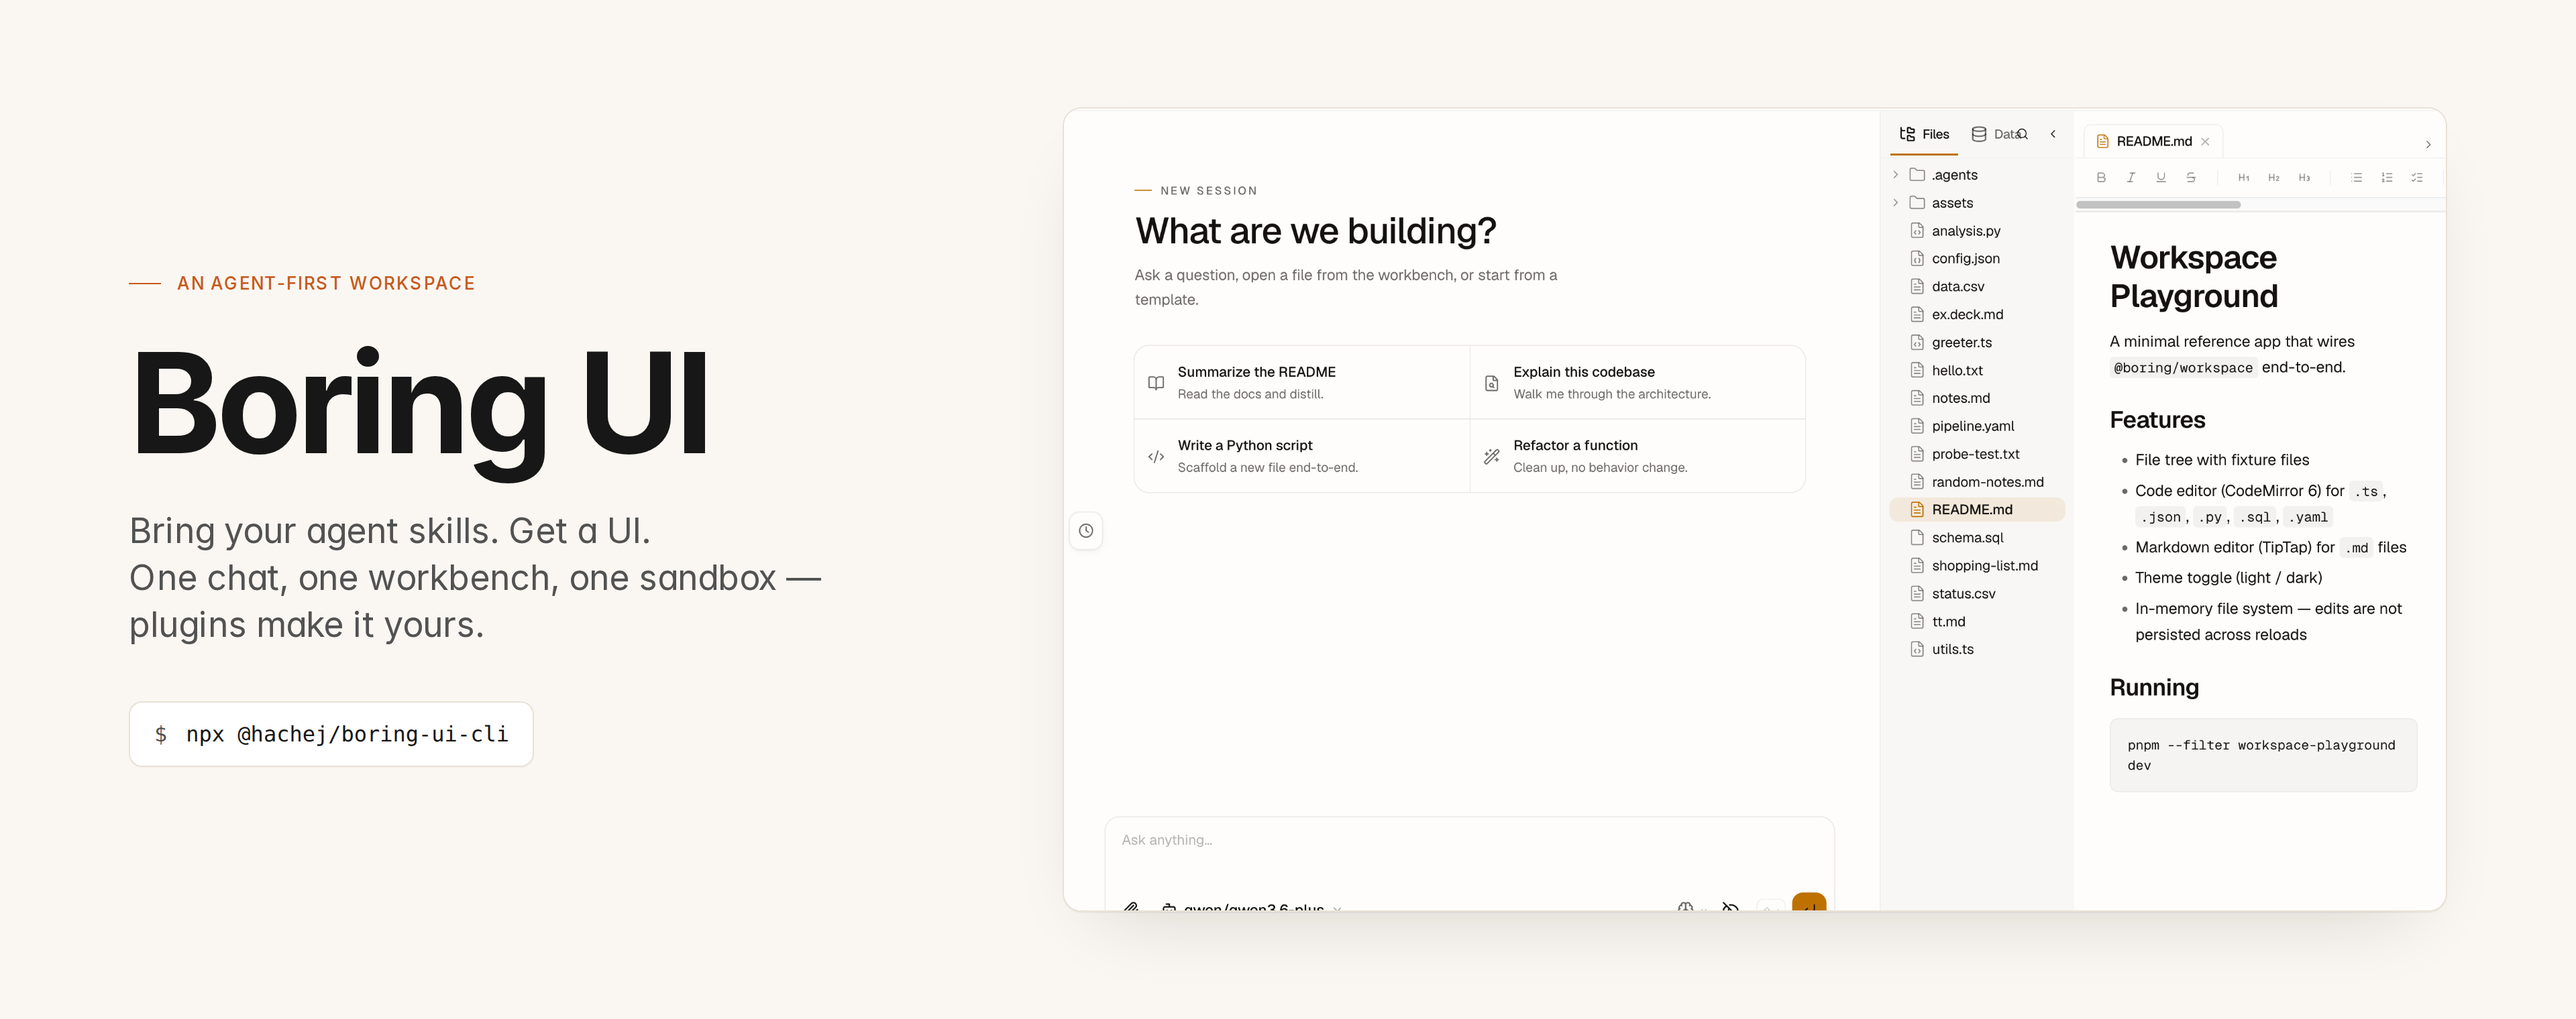
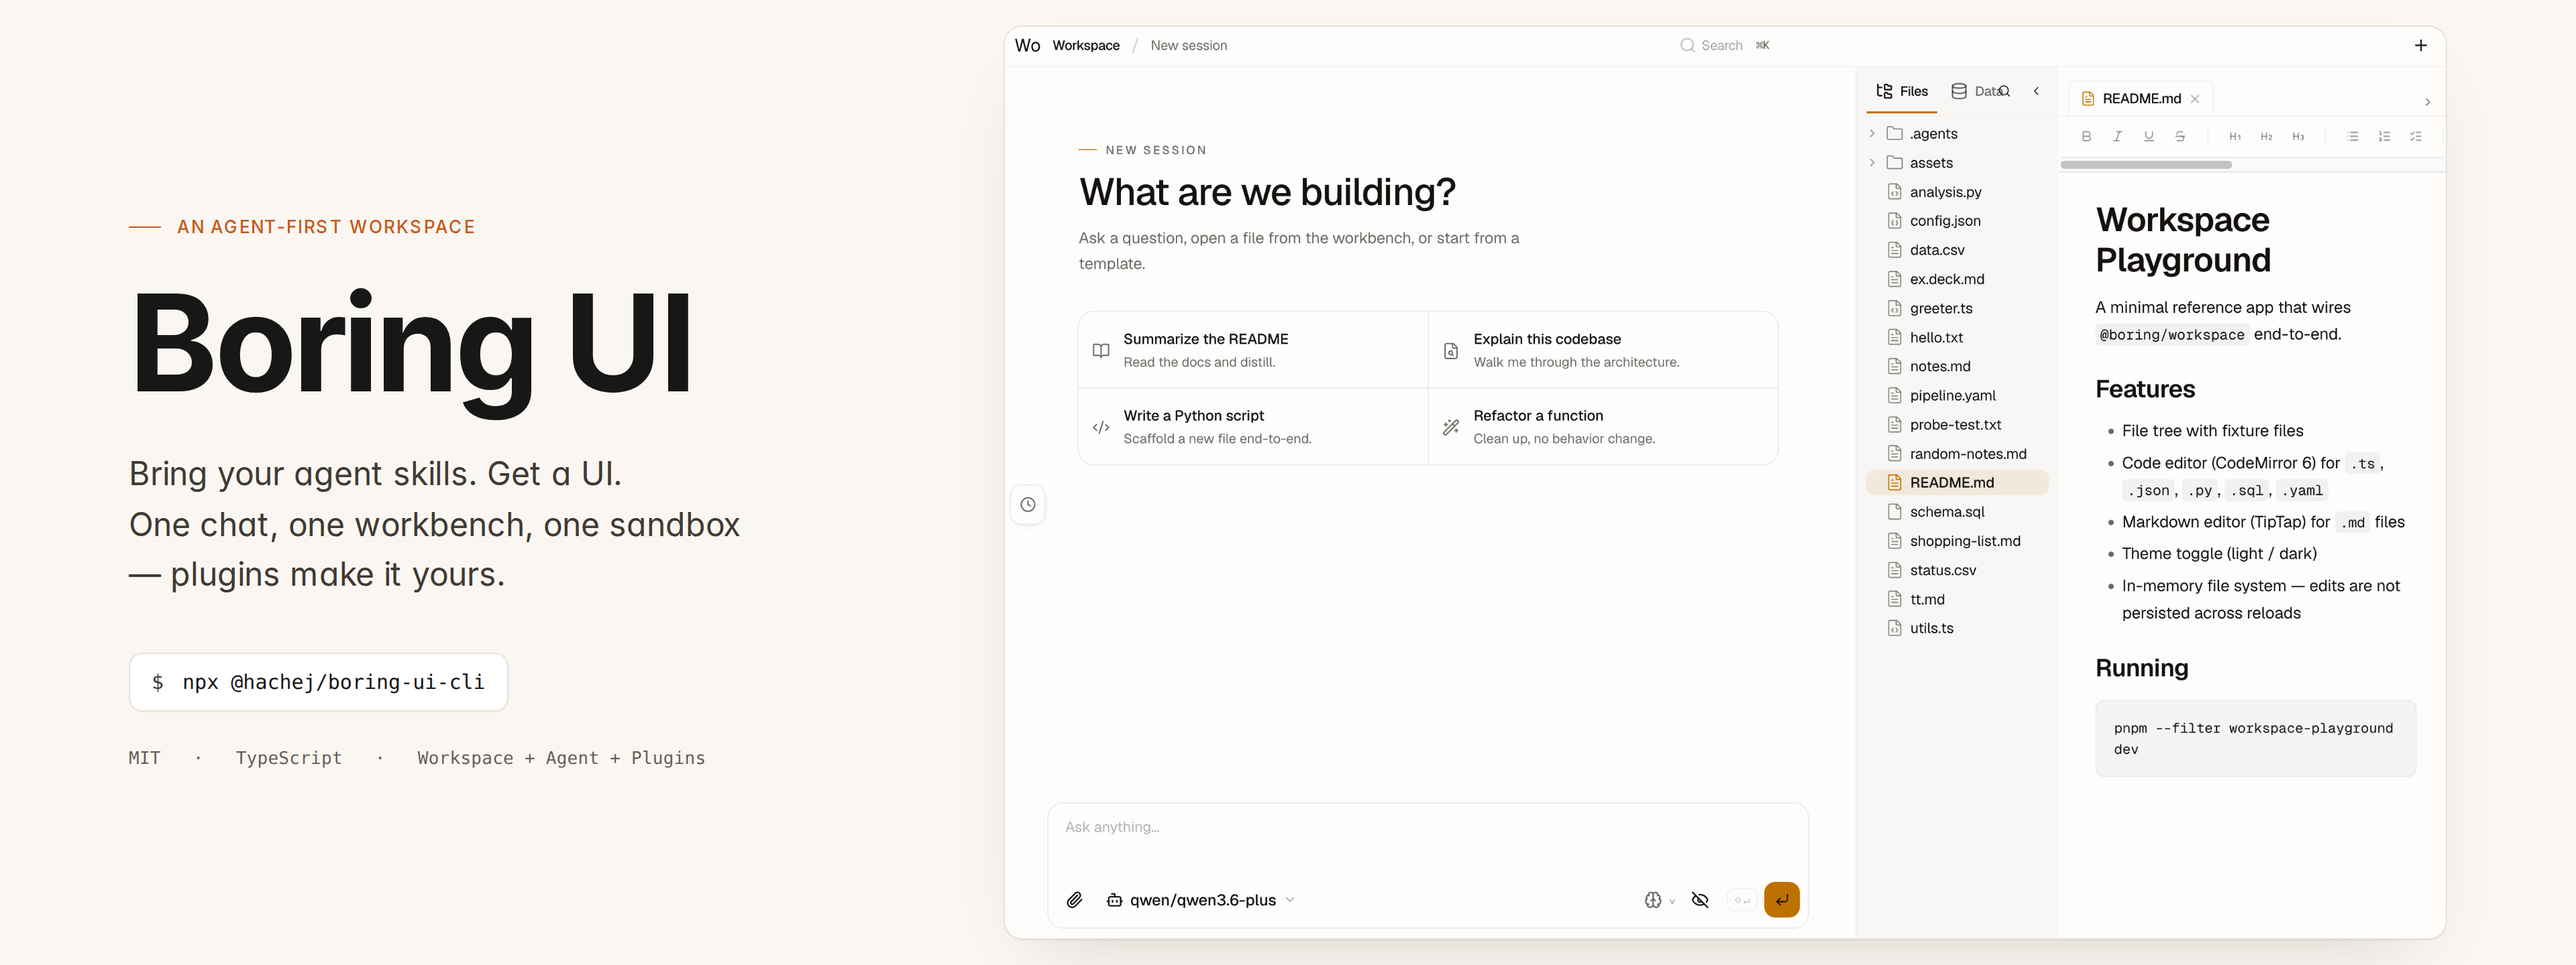
docs(readme): tighten hero — bigger headline, balanced columns, meta row
Iterated against multimodal Gemini grading (16 passes total). Settled
on the configuration with the best mean score (8.9-9.0) and 9.4 ceiling:

- Hero canvas 1920×720 (was 1920×760)
- Text column 540px, gap 112px, padding 96px — better proportional
  weight against the screenshot column
- Headline 100px / -0.028em letter-spacing (was 104px / -0.035em) — less
  monumental, more editorial
- Lede color #3F3A33 (was #525252) — passes WCAG AA on cream bg
- Added MIT / TypeScript / Workspace+Agent+Plugins meta row — anchors
  the text column to match the screenshot column's bottom edge,
  resolving the vertical-balance issue Gemini repeatedly flagged
- Screenshot now object-fit: contain (was cover) + auto height — shows
  the full workspace including header chrome and chat input

diff --git a/scripts/hero/hero.html b/scripts/hero/hero.html
@@ -11,7 +11,7 @@
       --bg:        #FAF7F2;
       --canvas:    #FFFFFF;
       --fg:        #171717;
-      --muted:     #525252;
+      --muted:     #3F3A33;
       --hairline:  #E8E1D5;
       --accent:    #C7591A;     /* one accent, used sparingly */
       --mono: ui-monospace, "JetBrains Mono", "SFMono-Regular", Menlo, Consolas, monospace;
@@ -21,7 +21,7 @@
     html, body { margin: 0; padding: 0; background: var(--bg); }
     body {
       width: 1920px;
-      height: 760px;
+      height: 720px;
       font-family: var(--sans);
       color: var(--fg);
       font-feature-settings: "ss01", "cv11", "cv02";
@@ -31,14 +31,24 @@
       width: 100%;
       height: 100%;
       display: grid;
-      grid-template-columns: 600px 1fr;
-      gap: 96px;
+      grid-template-columns: 540px 1fr;
+      gap: 112px;
       padding: 0 96px;
       align-items: center;
     }
     .text {
       padding-top: 8px;
     }
+    .meta-row {
+      display: flex;
+      gap: 24px;
+      margin-top: 28px;
+      font-family: var(--mono);
+      font-size: 13px;
+      color: var(--muted);
+      letter-spacing: 0.01em;
+    }
+    .meta-row span { opacity: 0.8; }
     .eyebrow {
       display: inline-flex;
       align-items: center;
@@ -58,11 +68,11 @@
       background: var(--accent);
     }
     h1 {
-      font-size: 104px;
+      font-size: 100px;
       font-weight: 700;
-      letter-spacing: -0.035em;
-      line-height: 0.95;
-      margin: 0 0 28px 0;
+      letter-spacing: -0.028em;
+      line-height: 0.94;
+      margin: 0 0 32px 0;
     }
     h1 .accent {
       color: var(--fg);
@@ -70,11 +80,11 @@
       font-weight: 500;
     }
     p.lede {
-      font-size: 26px;
-      line-height: 1.35;
+      font-size: 24px;
+      line-height: 1.55;
       color: var(--muted);
       margin: 0 0 40px 0;
-      max-width: 520px;
+      max-width: 480px;
       font-weight: 400;
     }
     p.lede b {
@@ -86,34 +96,35 @@
       align-items: center;
       gap: 14px;
       font-family: var(--mono);
-      font-size: 16px;
+      font-size: 15px;
       color: var(--fg);
       background: var(--canvas);
       border: 1px solid var(--hairline);
-      padding: 14px 18px;
+      padding: 12px 16px;
       border-radius: 10px;
       box-shadow: 0 1px 0 rgba(0,0,0,0.02);
+      max-width: fit-content;
     }
     .cmd .dollar { color: var(--muted); user-select: none; }
     .cmd .pkg { font-weight: 500; }
     .shot-wrap {
       position: relative;
       width: 100%;
-      height: 600px;
       display: flex;
       align-items: center;
+      justify-content: center;
     }
     .shot {
       width: 100%;
-      height: 100%;
-      object-fit: cover;
-      object-position: left center;
+      height: auto;
+      object-fit: contain;
       border-radius: 14px;
       border: 1px solid var(--hairline);
       box-shadow:
         0 1px 0 rgba(0,0,0,0.04),
         0 24px 56px -28px rgba(20, 16, 8, 0.18);
       background: var(--canvas);
+      display: block;
     }
   </style>
 </head>
@@ -129,6 +140,13 @@
       <div class="cmd">
         <span class="dollar">$</span>
         <span class="pkg">npx&nbsp;@hachej/boring-ui-cli</span>
+      </div>
+      <div class="meta-row">
+        <span>MIT</span>
+        <span>·</span>
+        <span>TypeScript</span>
+        <span>·</span>
+        <span>Workspace&nbsp;+&nbsp;Agent&nbsp;+&nbsp;Plugins</span>
       </div>
     </div>
     <div class="shot-wrap">
